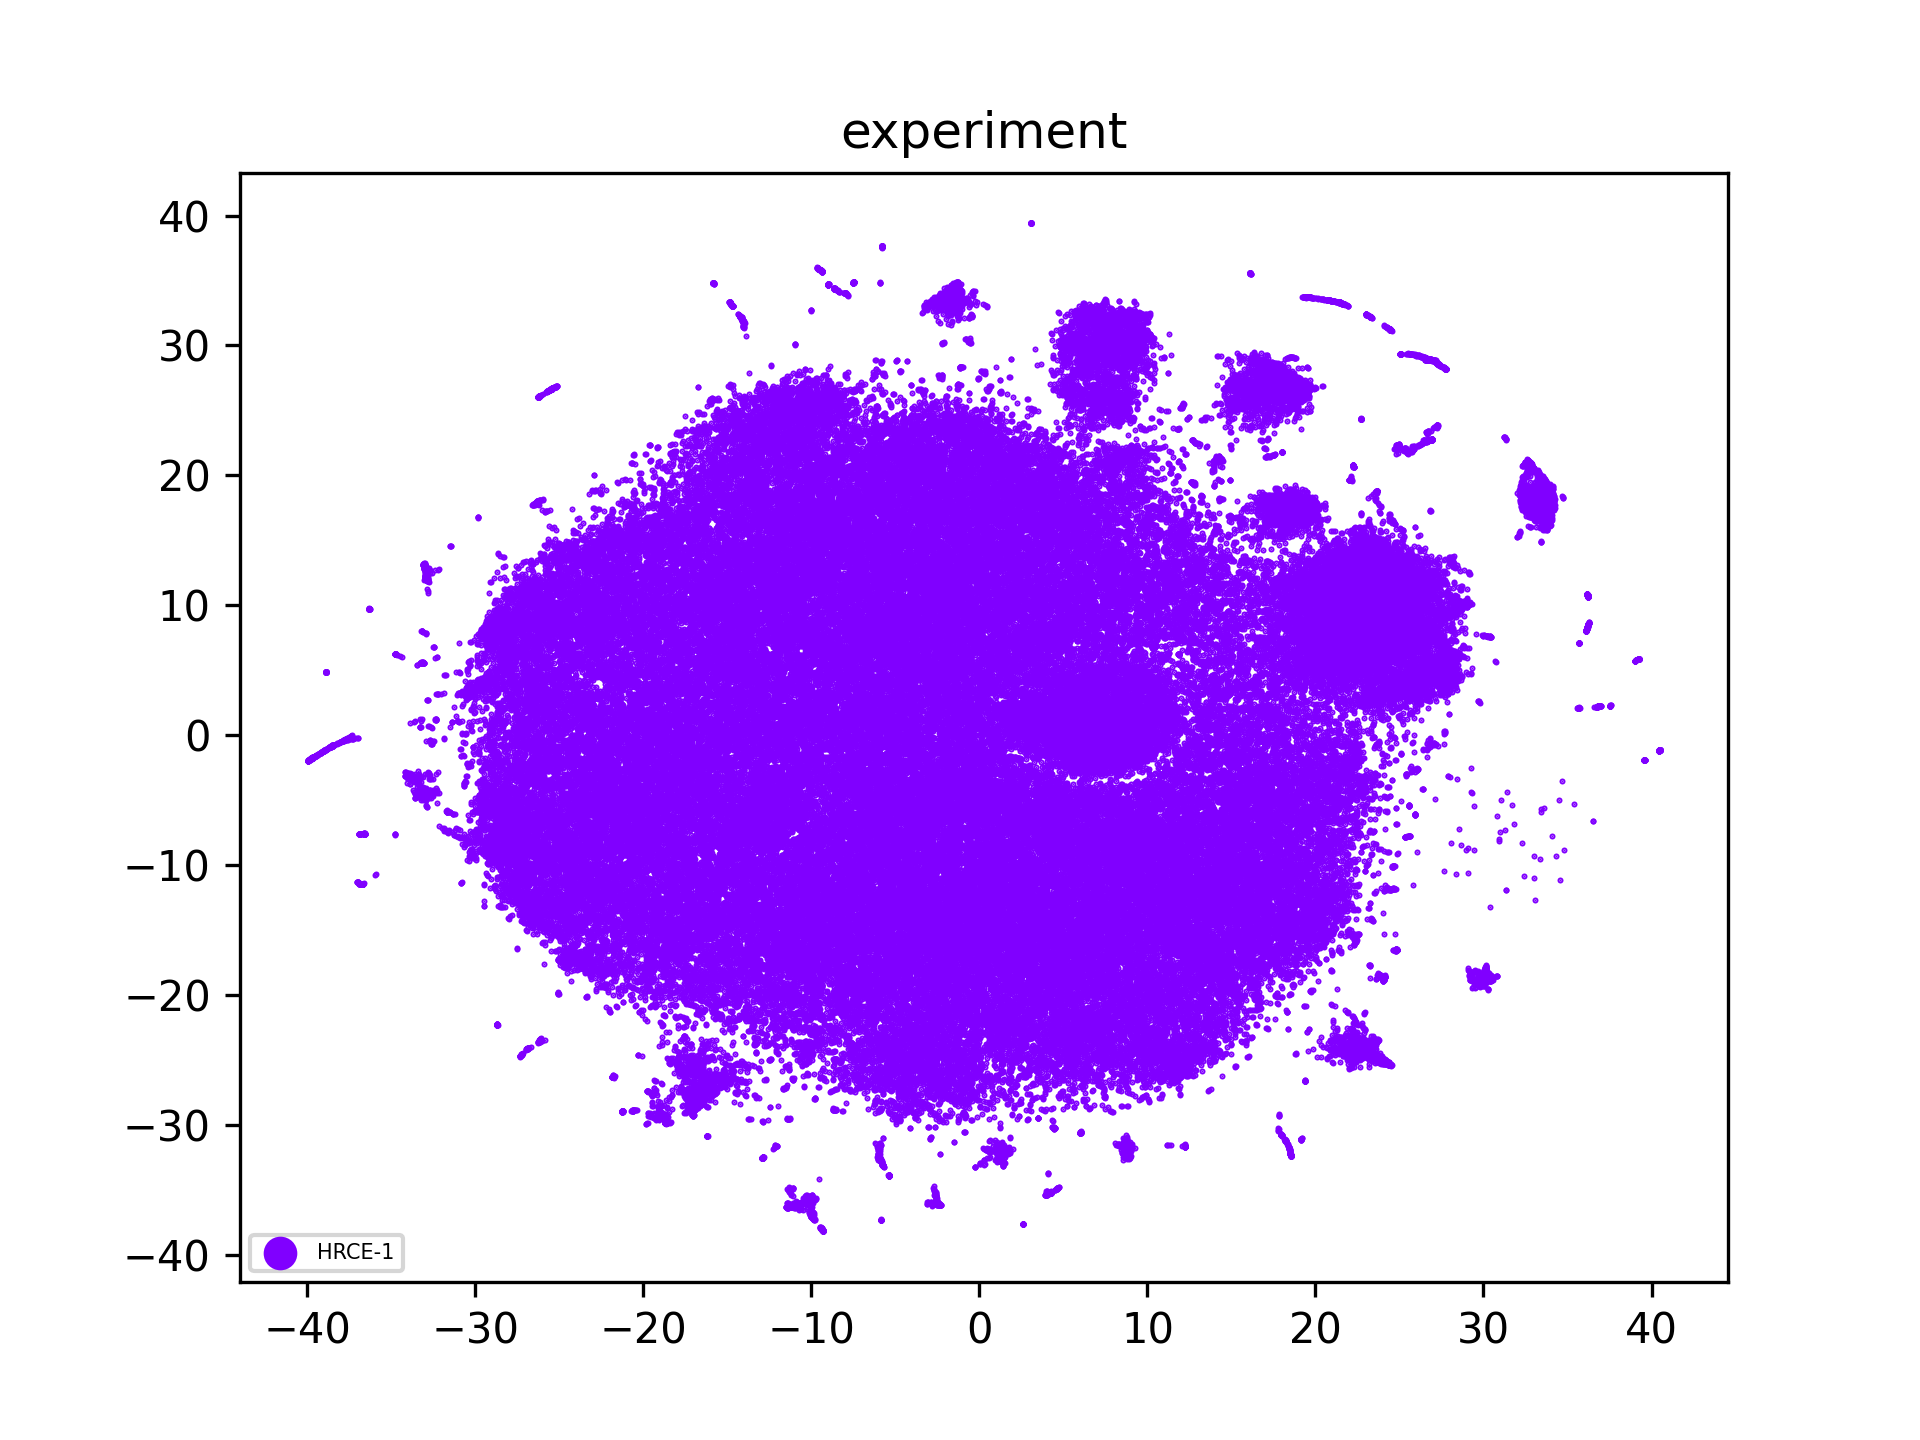
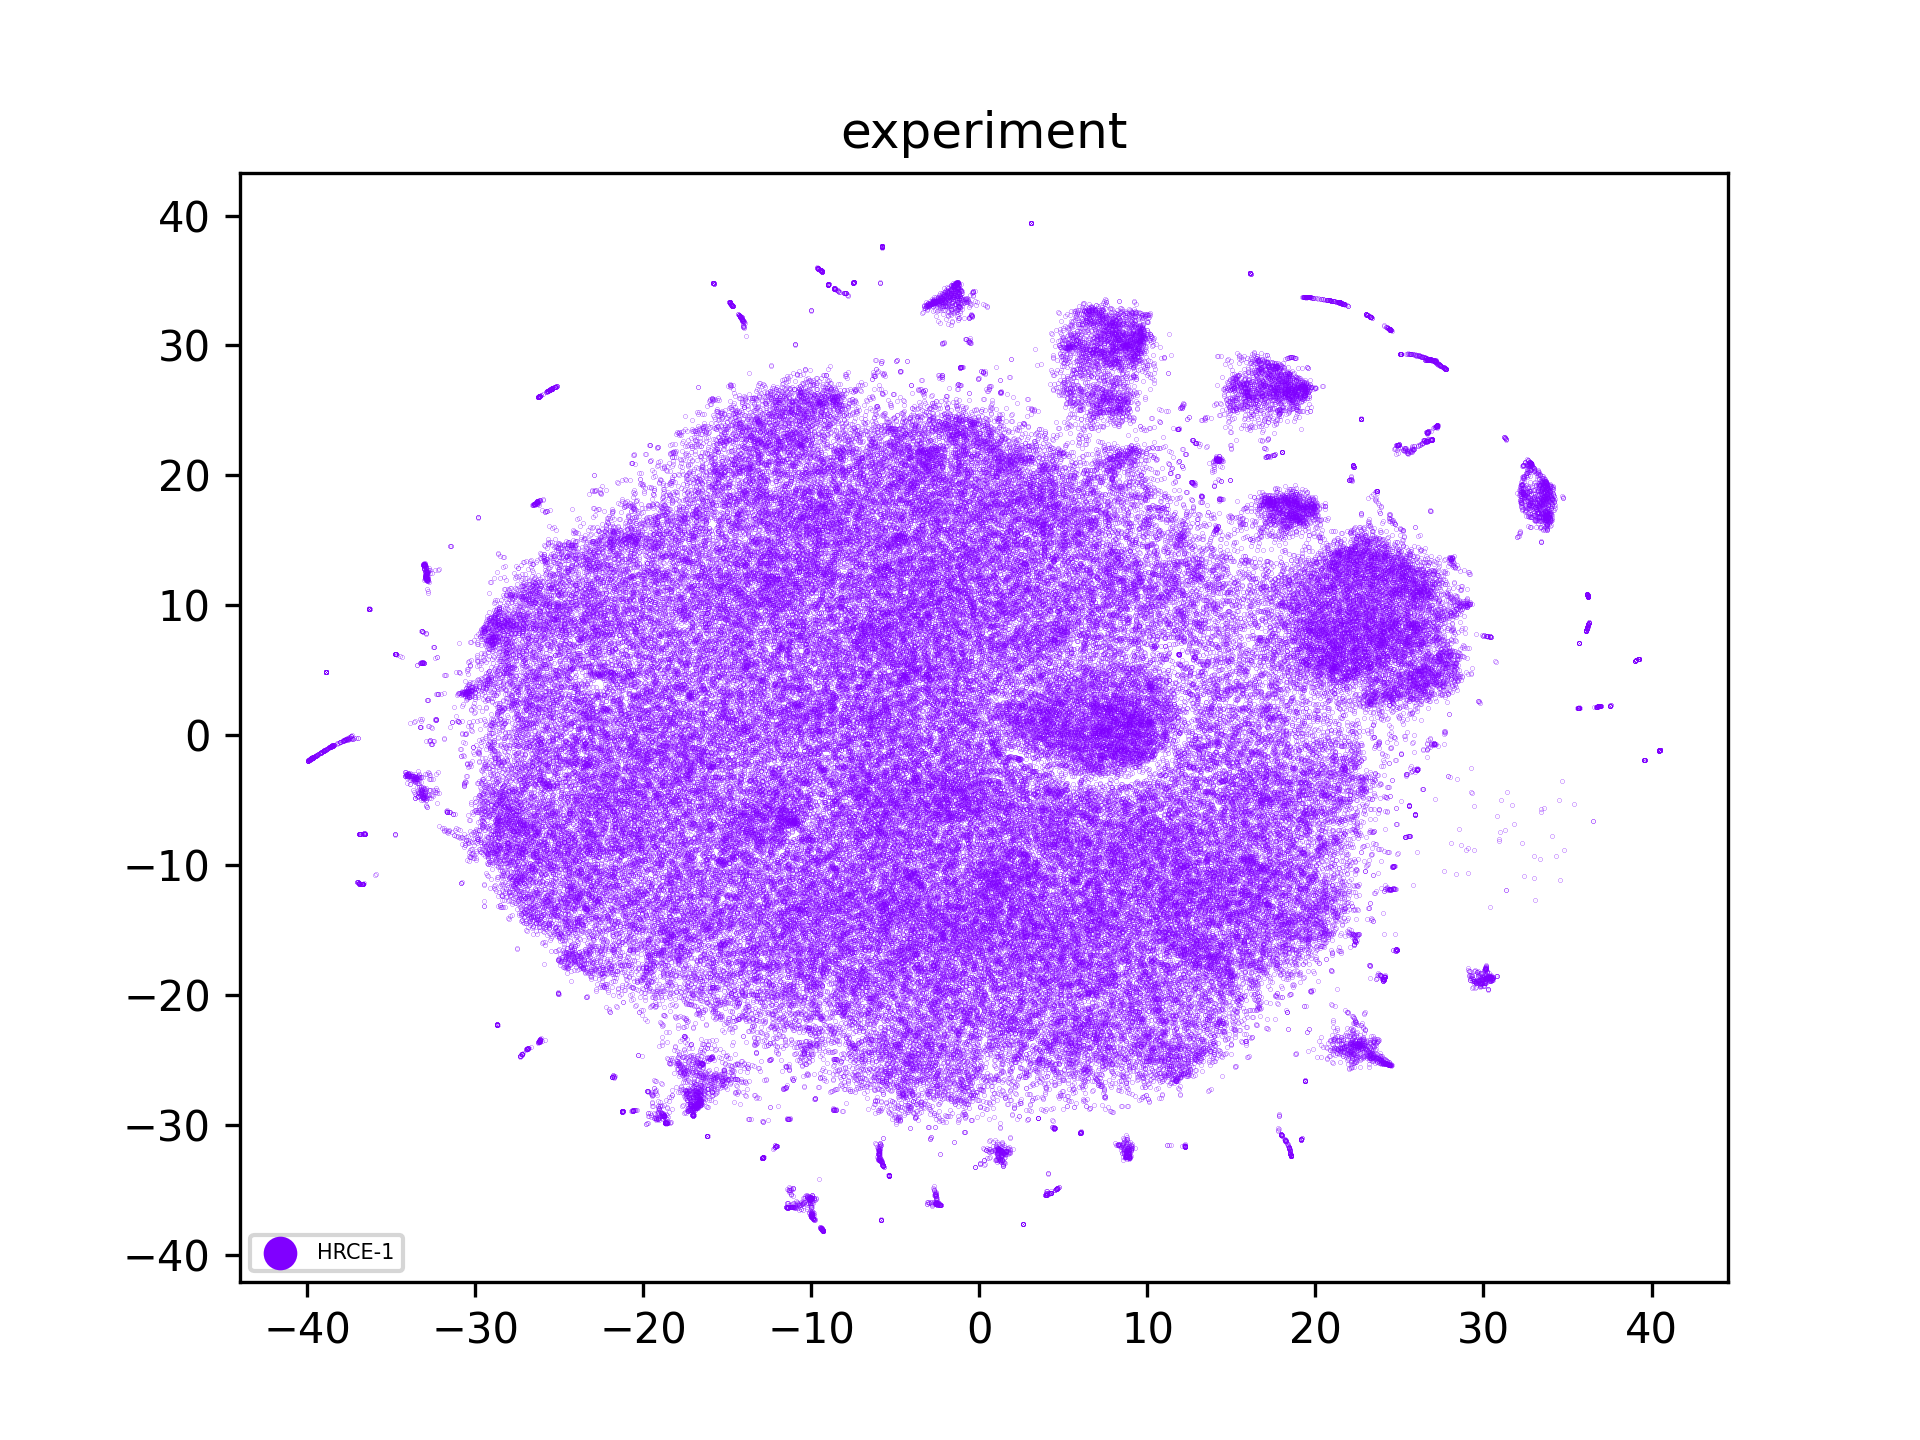
updating figs

diff --git a/plots.py b/plots.py
@@ -21,9 +21,9 @@ def scatter(df, colname, title=None):
 
     uniq = sorted(list(set(df[colname].dropna())))
 
-    #if len(uniq) > 50:
-    #    print('skipping ', colname)
-    #    return
+    if len(uniq) > 50:
+        print('skipping ', colname)
+        return
 
     print('\n\n')
     print(df[colname].value_counts())
@@ -36,7 +36,7 @@ def scatter(df, colname, title=None):
 
     for i, colVal in enumerate(uniq):
         sdf = df[df[colname]==colVal]
-        plt.scatter(sdf.x, sdf.y, s=0.01, color=scalarMap.to_rgba(i), label=colVal)
+        plt.scatter(sdf.x, sdf.y, s=0.005, color=scalarMap.to_rgba(i), label=colVal)
 
     plt.title(title)
     if len(uniq) < 50:
